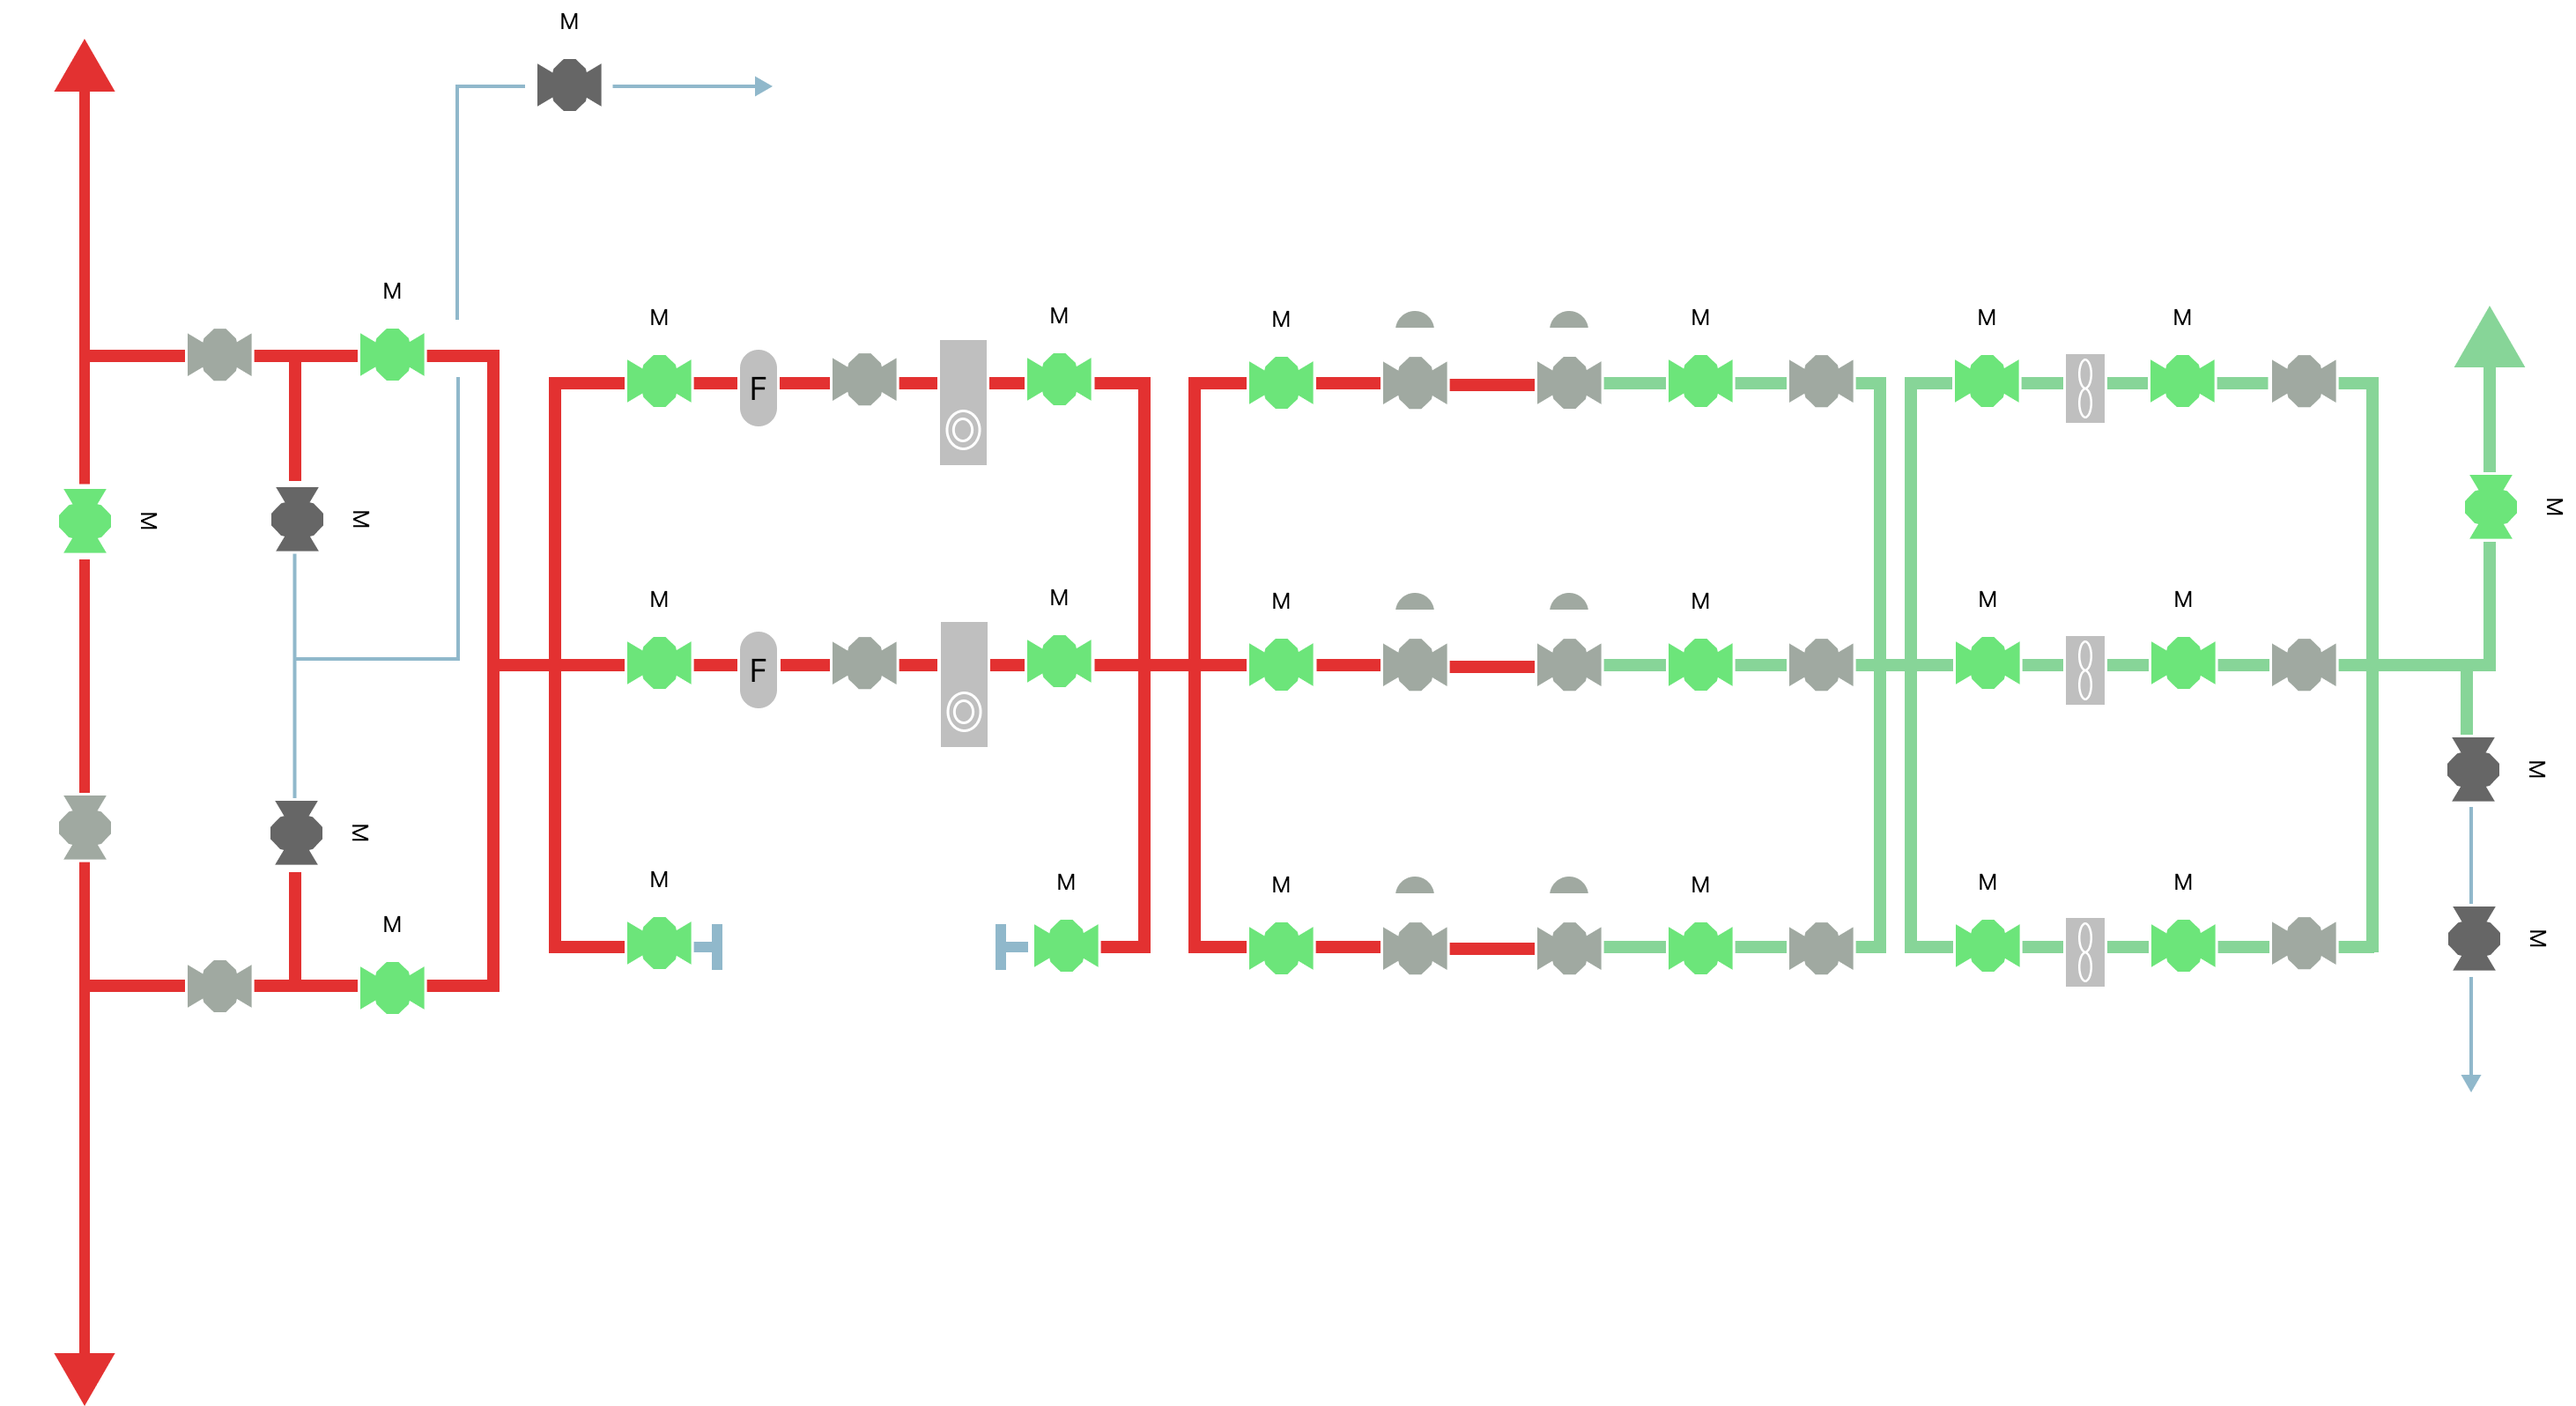
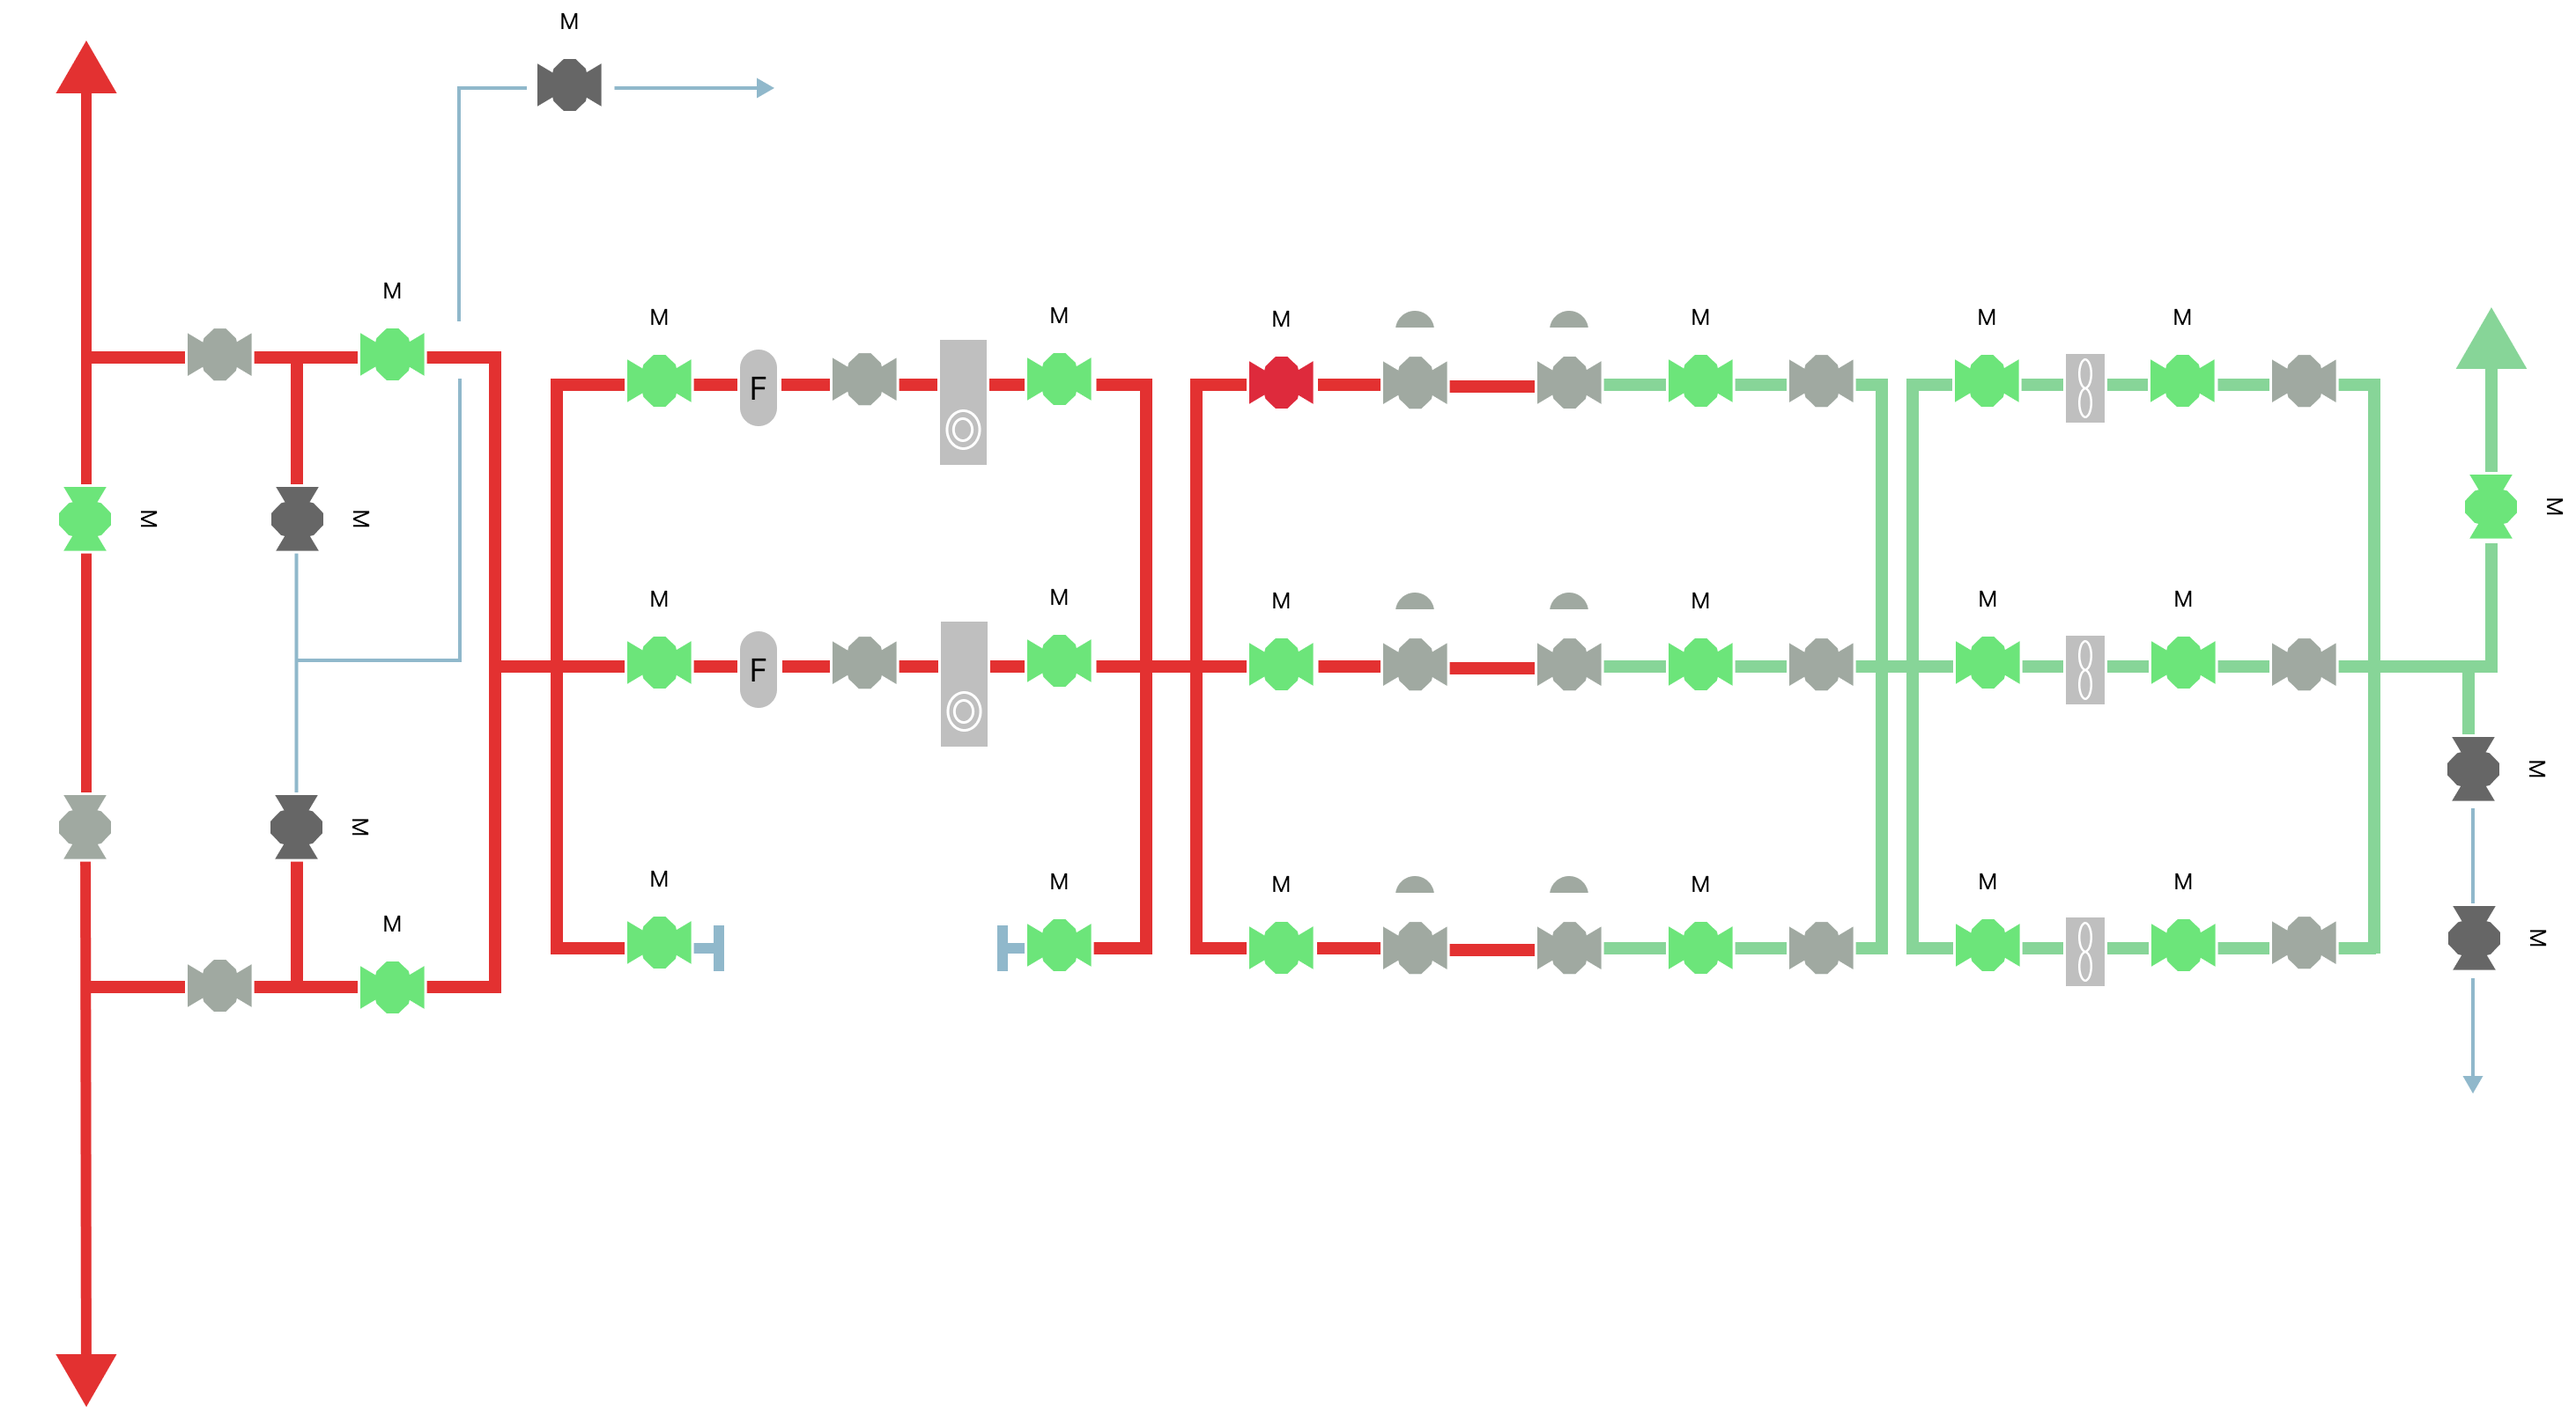
경고음 종료 추가

diff --git a/Assets/02. Scripts/ControlRoom/PipelineSimulation.cs b/Assets/02. Scripts/ControlRoom/PipelineSimulation.cs
@@ -73,6 +73,7 @@ public class PipelineSimulation : SimulationBase
                             {
                                 EventType = ScenarioEventType.Alarm,
                                 NodeID = 0,
+                                EventId = "On"
                             });
         };
 
@@ -91,6 +92,14 @@ public class PipelineSimulation : SimulationBase
         // 0번: 모니터에 누출 지점 표시
         GameNodes[1].OnEnd += () =>
         {
+            EventBus.Publish(ScenarioEventType.Alarm,
+                            new ScenarioEvent
+                            {
+                                EventType = ScenarioEventType.Alarm,
+                                NodeID = 0,
+                                EventId = "Off"
+                            });
+
             EventBus.Publish(ScenarioEventType.Monitor,
                 new ScenarioEvent
                 {

diff --git a/Assets/02. Scripts/ControlRoom/FacilitySimulation.cs b/Assets/02. Scripts/ControlRoom/FacilitySimulation.cs
@@ -83,6 +83,14 @@ public class FacilitySimulation : SimulationBase
         // 2번: 모니터에 누출 지점 표시
         GameNodes[2].OnEnd += () =>
         {
+            EventBus.Publish(ScenarioEventType.Alarm,
+                            new ScenarioEvent
+                            {
+                                EventType = ScenarioEventType.Alarm,
+                                NodeID = 0,
+                                EventId = "Off"
+                            });
+
             EventBus.Publish(ScenarioEventType.Monitor,
                 new ScenarioEvent
                 {

diff --git a/Assets/02. Scripts/ControlScenarioPlayer.cs b/Assets/02. Scripts/ControlScenarioPlayer.cs
@@ -133,7 +133,11 @@ public class ControlScenarioPlayer : ScenarioPlayerBase<ScenarioAsset>
 
         SubscribeEvent(ScenarioEventType.Alarm, e =>
         {
-            SESource.PlayOneShot(AlarmClip);
+            if (e.EventId == "On")
+                SESource.PlayOneShot(AlarmClip);
+
+            else if (e.EventId == "Off")
+                SESource.Stop();
         });
 
         SubscribeEvent(ScenarioEventType.ShowMessage, e =>
